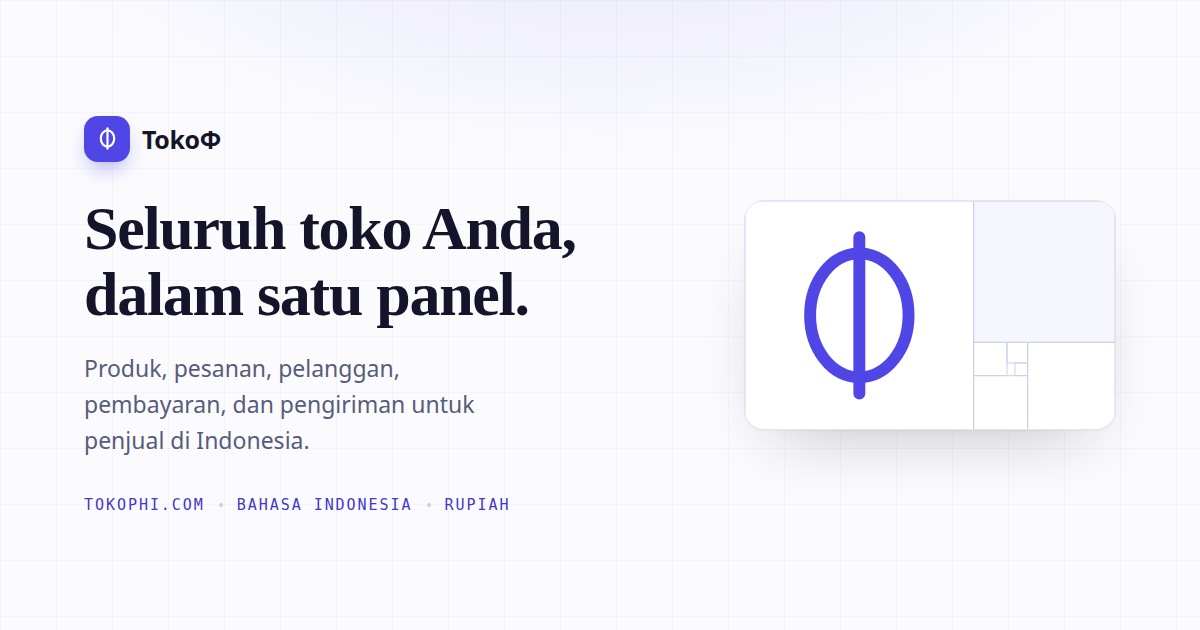
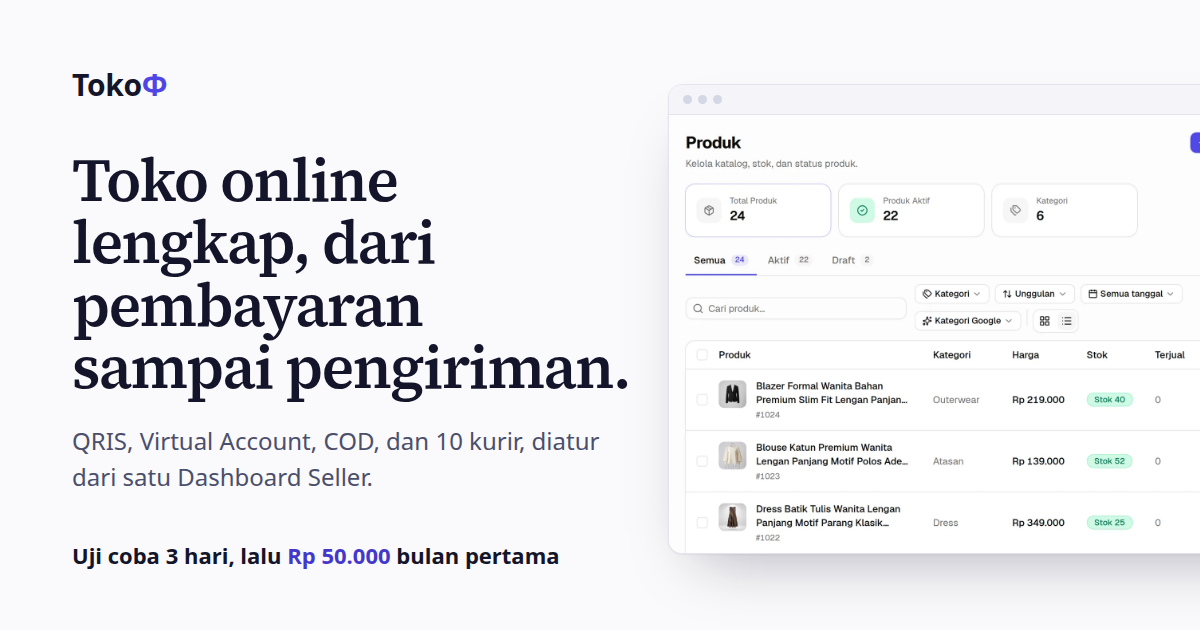
feat(landing): operator identity, Panduan links, new share image, doc polish
- Operator identity (owner, 2026-10-14): PT Tokophi Nusantara, registered
  address, hello@tokophi.com and WhatsApp as defaults in lib/identity.ts
  (env still overrides); /kontak and /privasi show them, footer uses the name.
- /privasi: one-line beta note (not reviewed by counsel yet).
- Panduan seller linked from footer, /kontak, /cara-kerja and the 404.
- og.png re-rendered from design/og.html with the current hero.
- 404 eyebrow pill and tracked-caps dt labels removed; stacked CTAs full
  width on phones; /kontak capitalisation; Dashboard Seller naming.

diff --git a/apps/landing/src/lib/identity.ts b/apps/landing/src/lib/identity.ts
@@ -1,10 +1,9 @@
 // Who TokoΦ legally is, and how to reach us.
 //
-// ⚠ DELIBERATELY NOT HARD-CODED. Nothing in this repository establishes the operating entity, its
-// registered address or a monitored support channel — and a placeholder rendered as text on a legal
-// page IS a published claim, indistinguishable to a reader (or to an ads reviewer) from a real one.
-// Unset therefore renders as an explicit "belum dicantumkan" notice naming what is missing, never as
-// an invented value. Filling these is a build-env change, not a code change:
+// The defaults below are the owner's own statement (2026-10-14): entity, registered address, the
+// support mailbox and the platform WhatsApp. Nothing else may be put here — a placeholder rendered on
+// a legal page IS a published claim. A build env var still overrides each one; an empty value falls
+// back to the default, and a field with neither renders as an explicit "belum dicantumkan" notice:
 //
 //   PUBLIC_LEGAL_NAME      e.g. "PT Contoh Digital Nusantara"  (badan usaha / perorangan)
 //   PUBLIC_LEGAL_ADDRESS   full registered address
@@ -14,11 +13,17 @@
 // `||`, not `??`: an unset Docker ARG becomes an EMPTY STRING env var, not undefined (same trap the
 // CTA URLs already carry a comment about — it shipped once and the live buttons had no target).
 export const IDENTITY = {
-  legalName: (import.meta.env.PUBLIC_LEGAL_NAME as string | undefined) || null,
-  address: (import.meta.env.PUBLIC_LEGAL_ADDRESS as string | undefined) || null,
-  email: (import.meta.env.PUBLIC_CONTACT_EMAIL as string | undefined) || null,
-  whatsapp: (import.meta.env.PUBLIC_CONTACT_WHATSAPP as string | undefined) || null,
-} as const;
+  legalName: (import.meta.env.PUBLIC_LEGAL_NAME as string | undefined) || "PT Tokophi Nusantara",
+  address:
+    (import.meta.env.PUBLIC_LEGAL_ADDRESS as string | undefined) ||
+    "Perumahan The Gayungsari, Jl. Gayungsari Timur Blok H-I No. 01, Gayungan, Kec. Gayungan, Surabaya, Jawa Timur 60234",
+  email: (import.meta.env.PUBLIC_CONTACT_EMAIL as string | undefined) || "hello@tokophi.com",
+  whatsapp: (import.meta.env.PUBLIC_CONTACT_WHATSAPP as string | undefined) || "6281283098098",
+} as { legalName: string | null; address: string | null; email: string | null; whatsapp: string | null };
+
+/** "6281283098098" → "+62 812-8309-8098": the number as people read it; the link keeps the digits. */
+export const whatsappDisplay = (n: string) =>
+  `+62 ${n.replace(/^62/, "").replace(/^(\d{3})(\d{4})(\d+)$/, "$1-$2-$3")}`;
 
 /** A reader can reach a human. Either channel is enough. */
 export const HAS_CONTACT = Boolean(IDENTITY.email || IDENTITY.whatsapp);

diff --git a/apps/landing/design/og.html b/apps/landing/design/og.html
@@ -1,0 +1,22 @@
+<!doctype html>
+<!-- Source of public/og.png (1200x630). Render: open in Chrome at 1200x630, DPR 1, screenshot the viewport. Copy here must match the hero. -->
+<html><head><meta charset="utf-8"><style>
+@font-face{font-family:"Source Serif 4";src:url("../public/fonts/source-serif-4-latin-wght.woff2") format("woff2");font-weight:200 900}
+*{box-sizing:border-box;margin:0}
+body{width:1200px;height:630px;overflow:hidden;background:#fafafc;font-family:"Noto Sans",system-ui,sans-serif;color:#14152a;position:relative}
+.copy{position:absolute;left:72px;top:64px;width:560px}
+.mark{font-weight:700;font-size:30px;letter-spacing:-.01em}.mark span{color:#4f46e5}
+h1{margin-top:44px;font-family:"Source Serif 4",serif;font-weight:600;font-size:60px;line-height:1.04;letter-spacing:-.025em}
+p{margin-top:24px;font-size:24px;line-height:1.5;color:#4b4f6b}
+.price{position:absolute;left:72px;bottom:60px;font-size:22px;font-weight:600;color:#14152a}
+.price b{color:#4338ca}
+.shot{position:absolute;left:668px;top:84px;width:640px;border:1px solid #e3e4ee;border-radius:14px;overflow:hidden;background:#fff;box-shadow:0 1px 2px rgba(20,21,42,.05),0 30px 60px -30px rgba(20,21,42,.35)}
+.bar{display:flex;gap:6px;padding:10px 14px;border-bottom:1px solid #e3e4ee;background:#f4f4f9}.bar i{width:9px;height:9px;border-radius:9px;background:#d5d7e5}
+.shot img{display:block;width:100%}
+</style></head><body>
+<div class="copy"><div class="mark">Toko<span>Φ</span></div>
+<h1>Toko online lengkap, dari pembayaran sampai pengiriman.</h1>
+<p>QRIS, Virtual Account, COD, dan 10 kurir, diatur dari satu Dashboard Seller.</p></div>
+<div class="price">Uji coba 3 hari, lalu <b>Rp 50.000</b> bulan pertama</div>
+<div class="shot"><div class="bar"><i></i><i></i><i></i></div><img src="../public/screens/seller-produk-1600.webp"></div>
+</body></html>

diff --git a/apps/landing/src/styles/global.css b/apps/landing/src/styles/global.css
@@ -190,6 +190,8 @@ body::before {
   flex-wrap: wrap;
   gap: 0.75rem;
 }
+/* Same rule as the page intros: stacked buttons share one width on a phone. */
+@media (max-width: 479px) { .cta .btn { flex: 1 1 100%; } }
 
 /* ── Document pages (privasi, kontak, 404) ────────────────────────────────────
    Long-form, scrolling, measured for reading. Nothing here is height-constrained:
@@ -286,13 +288,16 @@ body::before {
 .doc dl {
   margin-top: 0.75rem;
 }
+.doc .doc-note {
+  margin-top: 1rem;
+  color: var(--color-muted);
+  font-size: 0.875rem;
+}
 .doc dt {
   margin-top: 0.9rem;
-  font-size: 0.6875rem;
-  font-family: var(--font-mono);
-  letter-spacing: 0.11em;
-  text-transform: uppercase;
-  color: var(--color-primary-ink);
+  font-size: 0.8125rem;
+  font-weight: 600;
+  color: var(--color-muted);
 }
 .doc dd {
   margin-top: 0.2rem;

diff --git a/apps/landing/src/lib/navigation.ts b/apps/landing/src/lib/navigation.ts
@@ -15,6 +15,9 @@ export const MARKETING_ROUTES: readonly MarketingRoute[] = [
   { href: "/demo/", label: "Demo toko", shortLabel: "Demo" },
 ] as const;
 
+/** Seller help center (apps/docs), its own site since 2026-10-12. */
+export const PANDUAN_URL = import.meta.env.PUBLIC_PANDUAN_URL || "https://panduan.tokophi.com";
+
 export function isCurrentRoute(currentPath: string, href: string): boolean {
   if (href === "/") return currentPath === "/";
   return currentPath === href || currentPath.startsWith(href);

diff --git a/apps/landing/DESIGN.md b/apps/landing/DESIGN.md
@@ -20,7 +20,7 @@ section.
   and removed on the owner's call, 2026-10-11: "faq sepertinya belum perlu". The facts it carried —
   COD limits, review on signup, read-only grace — live in the fact row and the pricing panel.)
 - **One primary action:** "Coba gratis 3 hari" → `app.tokophi.com/daftar`. Secondary: "Lihat toko
-  demo". No WhatsApp CTA (owner invariant; no official channel is configured yet anyway).
+  demo". No WhatsApp CTA (owner invariant). The platform number exists since 2026-10-14 and appears only as contact information on /kontak and /privasi, never as a button.
 
 ## Claim sources (nothing on the page may go beyond these)
 
@@ -167,7 +167,7 @@ were deleted with `@astrojs/react`, `react`, `react-dom` and `lucide-react`.
 |---|---|
 | Subscription PPN toggle is OFF today; if it is switched on, the page must say "belum termasuk PPN". Keep the page silent on PPN until then? | Nothing now; recheck when the toggle changes |
 | Using the demo store's real Saldo / Pemasaran screens as imagery | Resolved 2026-10-12: kept (owner: "jalankan sesuai rekomendasimu"; it is the public demo store) |
-| Legal identity + contact (`PUBLIC_LEGAL_*`, `PUBLIC_CONTACT_*`) still unset: the entity is being registered (owner, 2026-10-12); pages say so | Ads review; fill the env vars when issued |
+| Legal identity + contact | Resolved 2026-10-14 (owner): PT Tokophi Nusantara, Perumahan The Gayungsari Blok H-I No. 01 Surabaya 60234, hello@tokophi.com, WhatsApp 6281283098098 — defaults in `src/lib/identity.ts`, env still overrides. /privasi is not reviewed by counsel (beta, owner 2026-10-14); a one-line "Versi beta" note says so |
 
 ## Render critique
 
@@ -425,3 +425,33 @@ Pass 15 (2026-10-14, fresh renders after #409–#415; every page re-inspected at
 - Still known: the checkout captures show "Pilih ekspedisi lain (13)", the label before #411 changed
   it to "(13 layanan)". Re-capturing needs a new checkout session on the live demo store (a
   production write), so it waits for the owner's go-ahead.
+
+Pass 16 (2026-10-14, owner: "kebutuhan isi, ui ux, style … lanjut dulu"; content and wayfinding):
+- Rendered (design/renders/home-390.png, design/renders/home-1440.png, design/renders/harga-390.png, design/renders/harga-1440.png, design/renders/fitur-390.png, design/renders/fitur-1440.png, design/renders/cara-kerja-390.png, design/renders/cara-kerja-1440.png, design/renders/bayar-kirim-390.png, design/renders/bayar-kirim-1440.png, design/renders/demo-390.png, design/renders/demo-1440.png): 0 console errors, 0 overflow, one h1 per page; /kontak and the 404 also rendered and inspected at 390 and 1440.
+- Panduan seller (panduan.tokophi.com, live since #412) was linked from nowhere on the apex: now in the
+  footer's Informasi column, under /kontak "Anda pemilik toko?", beside /cara-kerja's daily-work
+  links (→ /mulai/), and as the 404's secondary action (it replaced "Kontak", a page that today lists
+  no contact channel). One constant, `PANDUAN_URL` in `lib/navigation.ts`.
+- /kontak notice began a sentence in lower case ("… belum lengkap. nama badan usaha …"): capitalised.
+  "panel Seller" → "Dashboard Seller" there and in /privasi (CLAUDE.md naming rule).
+- 404: the mono "• 404" pill (a template eyebrow, the only one left on the site) removed; the H1 says
+  it. Stacked `.cta` buttons share one width below 480px, like every page intro.
+- Fact row courier line: four names + "dan 6 lainnya" (was five), so column 2 no longer runs a line
+  longer than its neighbours at 1440.
+- The share image (the og PNG in public/) still said "Seluruh toko Anda, dalam satu panel." with a tracked mono
+  "TOKOPHI.COM • BAHASA INDONESIA • RUPIAH" strip: re-rendered from `design/og.html` with the current
+  hero headline, the price line and the real Produk screen; og/twitter alt updated to match.
+
+Pass 17 (2026-10-14, owner supplied the operator's identity; testimonials NOT added):
+- Rendered (design/renders/home-390.png, design/renders/home-1440.png, design/renders/harga-390.png, design/renders/harga-1440.png, design/renders/fitur-390.png, design/renders/fitur-1440.png, design/renders/cara-kerja-390.png, design/renders/cara-kerja-1440.png, design/renders/bayar-kirim-390.png, design/renders/bayar-kirim-1440.png, design/renders/demo-390.png, design/renders/demo-1440.png): 0 console errors, 0 overflow, one h1; /kontak and /privasi also rendered at 390 and 1440 and inspected.
+- /kontak and /privasi §9 now name PT Tokophi Nusantara (legal form confirmed by the owner), the registered address, hello@tokophi.com and
+  WhatsApp shown as "+62 812-8309-8098" (link keeps `wa.me/6281283098098`); footer © reads the
+  legal name. The "belum lengkap" notices disappear by themselves (they were gated on the data).
+- `.doc dt` labels were tracked uppercase mono (template chrome): now sentence case, 600 weight,
+  muted, the same voice as the rest of the page.
+- Owner asked for invented testimonials ("kau buat aja"): declined. A made-up quote under a real-
+  looking name is a fabricated endorsement, which the Never-claim list and the owner's own "no
+  invented social proof" rule forbid, and which a reader cannot tell from a real one.
+- /privasi: with identity complete the pending notice no longer shows, but no counsel has reviewed
+  the text (owner: still beta), so a one-line muted "Versi beta … belum ditinjau oleh penasihat
+  hukum" note sits under the lede.

diff --git a/BUILD-LOG.md b/BUILD-LOG.md
@@ -8,6 +8,18 @@
 
 ## Log History & Execution Entries
 
+### [2026-10-14 10:45 UTC] — LANDING · Panduan links, /kontak + 404 copy, share image, fact-row length
+Executor: Main Session (Claude Code). Branch `feat/landing-content-r7` (worktree `tokophi-landing`), from main 232a24fb. Owner: "kebutuhan isi, ui ux, style, dan lain-lain lanjut dulu baru sempurnakan".
+- **Wayfinding:** `PANDUAN_URL` (`apps/landing/src/lib/navigation.ts`, env `PUBLIC_PANDUAN_URL`, default https://panduan.tokophi.com) linked from the footer (Informasi → "Panduan seller"), /kontak, /cara-kerja (→ /mulai/) and the 404 (secondary action, replacing "Kontak").
+- **Copy:** /kontak notice capitalised; "panel Seller" → "Dashboard Seller" in /kontak and /privasi. Fact row lists four couriers + "dan 6 lainnya".
+- **Style:** 404 eyebrow pill removed; `.cta` buttons full width below 480px (`global.css`).
+- **Share image:** `apps/landing/public/og.png` re-rendered from new source `apps/landing/design/og.html` (current hero headline, price line, real Produk screen; no tracked-caps strip); `og:image:alt`/`twitter:image:alt` updated (`layouts/Base.astro`).
+- **Verified:** `astro check` 0 errors; local build rendered at 390/1440 for home, harga, fitur, cara-kerja, pembayaran-pengiriman, demo, kontak, 404: 0 overflow, one h1, all images with alt (4 empty alts = decorative checkout frames, by design); og.png 1200×630 served 200; `design/og.html` re-render is pixel-identical to the committed PNG. DESIGN.md render critique pass 16.
+- **Operator identity (owner, 2026-10-14):** `apps/landing/src/lib/identity.ts` now defaults to PT Tokophi Nusantara, Perumahan The Gayungsari Blok H-I No. 01 Gayungan Surabaya 60234, hello@tokophi.com, WhatsApp 6281283098098 (env vars still override). /kontak and /privasi §9 show them; WhatsApp displayed `+62 812-8309-8098` (`whatsappDisplay`); the "belum lengkap" notices disappear; footer © uses the legal name. `.doc dt` labels changed from tracked uppercase mono to sentence case.
+- **Not done, on purpose:** invented testimonials (owner: "kau buat aja") — a fabricated endorsement; real merchant stories only, with the merchant's consent.
+- **/privasi beta note:** not reviewed by counsel yet (owner: beta) — one muted line under the lede says so.
+- **Open:** `mailto:` links on /kontak and /privasi will make Cloudflare Email Obfuscation inject its render-blocking script on those two pages (`specs/docs/CLOUDFLARE-PERF.md`).
+
 ### [2026-10-14 09:50 UTC] — LANDING + PANDUAN · hero on the grid, /fitur Pemasaran scale, panduan mobile search row
 Executor: Main Session (Claude Code). Branch `fix/landing-review-r6` (worktree `tokophi-landing`), from main 037a112a.
 - **Landing** (`apps/landing`): fresh renders of every page at 390/1440 after #409–#415 (DESIGN.md Render critique, pass 15). Hero screenshot ended at x≈1375 at 1440 (neither on the 1304 content edge nor a bleed) → negative margin removed, screenshot and ornament end on the header's grid line. Hero ornament hidden below 1024px (its arc showed as stray lines under the stacked screenshot). /fitur Pemasaran screenshot capped at 56rem like the homepage (`DetailSection` `screen.max`), it ran ~1.4× its capture.
